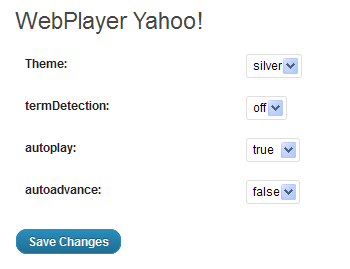
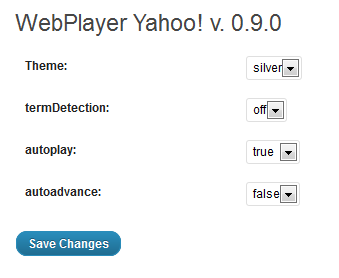
git-svn-id: https://plugins.svn.wordpress.org/webplayer-yahoo/trunk@458794 b8457f37-d9ea-0310-8a92-e5e31aec5664

diff --git a/webplayer-yahoo.php b/webplayer-yahoo.php
@@ -2,9 +2,9 @@
 
 /*
 Plugin Name: WebPlayer Yahoo!
-Plugin URI: http://www.pivari.com/
+Plugin URI: http://www.pivari.com/wordpress-plugins/webplayer-yahoo-wp-plugin/
 Description: A simple Plugin to add WebPlayer Yahoo! code on your pages.
-Version: 0.8.0
+Version: 0.9.0
 Author: Fabrizio Pivari
 Author URI: http://www.pivari.com
  */
@@ -24,6 +24,8 @@ Author URI: http://www.pivari.com
     along with this program; if not, write to the Free Software
     Foundation, Inc., 59 Temple Place, Suite 330, Boston, MA  02111-1307  USA
 */
+
+$version="0.9.0";
 
 if (!defined('WP_CONTENT_URL'))
       define('WP_CONTENT_URL', get_option('siteurl').'/wp-content');
@@ -64,14 +66,17 @@ function options_page_webplayer() {
 }
 
 function webplayer() {
+  global $version;
   $theme = get_option('theme');
   $termDetection = get_option('termDetection');
   $autoplay = get_option('autoplay');
   $autoadvance = get_option('autoadvance');
   $defaultalbumart='http://www.pivari.com/fabrizio-pivari-205x205.jpg';
-  $options='<script type="text/javascript"> var YWPParams = { theme: "' . $theme . '", termDetection: "' . $termDetection. '", autoplay:' . $autoplay . ', autoadvance:' . $autoadvance . ', defaultalbumart:"' . $defaultalbumart . '" }; </script>';
+  echo "\n".'<!-- WebPlayer Yahoo! plugin v. '.$version.' (Begin) -->'."\n" ;
+  $options='<script type="text/javascript"> var YWPParams = { theme: "' . $theme . '", termDetection: "' . $termDetection. '", autoplay:' . $autoplay . ', autoadvance:' . $autoadvance . ', defaultalbumart:"' . $defaultalbumart . '" }; </script>'."\n";
   echo $options;
-  echo '<script type="text/javascript" src="http://webplayer.yahooapis.com/player-beta.js"></script>';
+  echo '<script type="text/javascript" src="http://webplayer.yahooapis.com/player-beta.js"></script>'."\n" ;
+  echo '<!-- WebPlayer Yahoo! plugin v. '.$version.' (End) -->'."\n" ;
 
 }
 

diff --git a/options.php b/options.php
@@ -1,5 +1,5 @@
 <div class="wrap">
-<h2>WebPlayer Yahoo!</h2>
+<h2>WebPlayer Yahoo! v. <?php global $version; echo $version; ?></h2>
 
 <form method="post" action="options.php">
 <?php wp_nonce_field('update-options'); ?>
